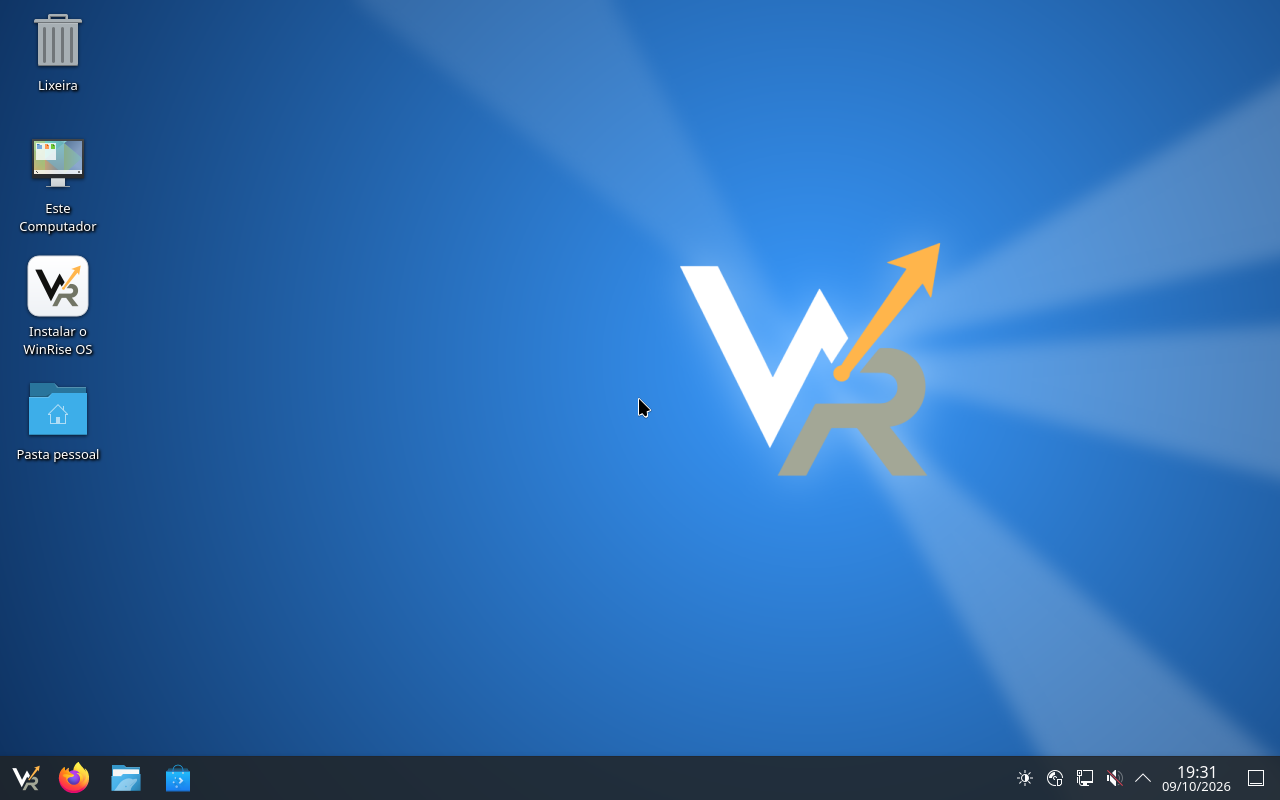
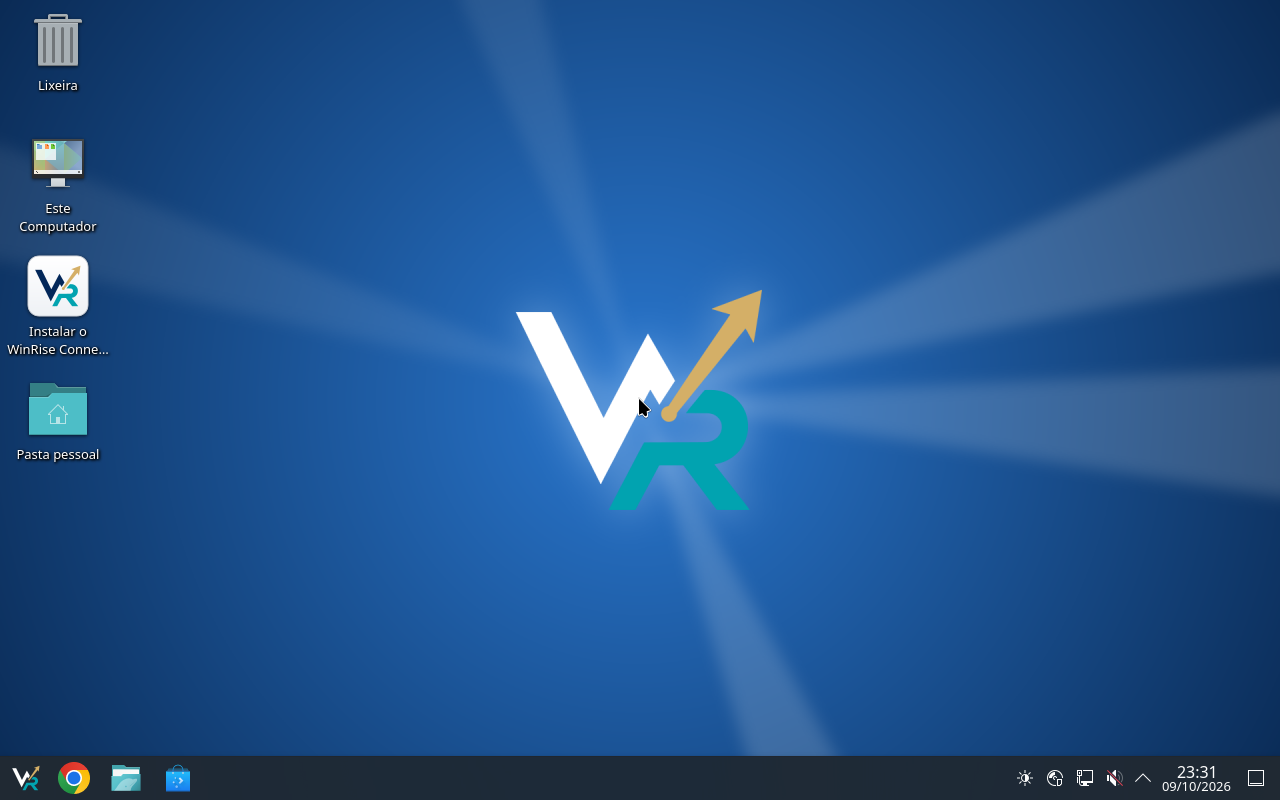
v0.2: capturas v4; busca rápida pré-carregada no login; Carteira do KDE desativada (sem assistente ao abrir o Chrome); barra de tarefas sempre translúcida

diff --git a/README.md b/README.md
@@ -24,9 +24,13 @@ duplo clique e os mesmos atalhos de teclado.
 |---|---|
 | ![Instalador WinRise Connect OS](docs/winrise-calamares.png) | ![Menu de boot](docs/winrise-bootmenu.png) |
 
-| <kbd>Ctrl</kbd>+<kbd>Shift</kbd>+<kbd>Esc</kbd> abre o Monitor do Sistema |
-|---|
-| ![Monitor do sistema](docs/winrise-sysmonitor.png) |
+| Visão geral no canto superior esquerdo (estilo Mission Control) | Google Chrome pré-instalado |
+|---|---|
+| ![Visão geral das janelas](docs/winrise-overview.png) | ![Google Chrome](docs/winrise-chrome.png) |
+
+| <kbd>Ctrl</kbd>+<kbd>Shift</kbd>+<kbd>Esc</kbd> abre o Monitor do Sistema | Menu de boot no BIOS legado |
+|---|---|
+| ![Monitor do sistema](docs/winrise-sysmonitor.png) | ![Menu de boot BIOS](docs/winrise-bootmenu-bios.png) |
 
 ## Filosofia
 
